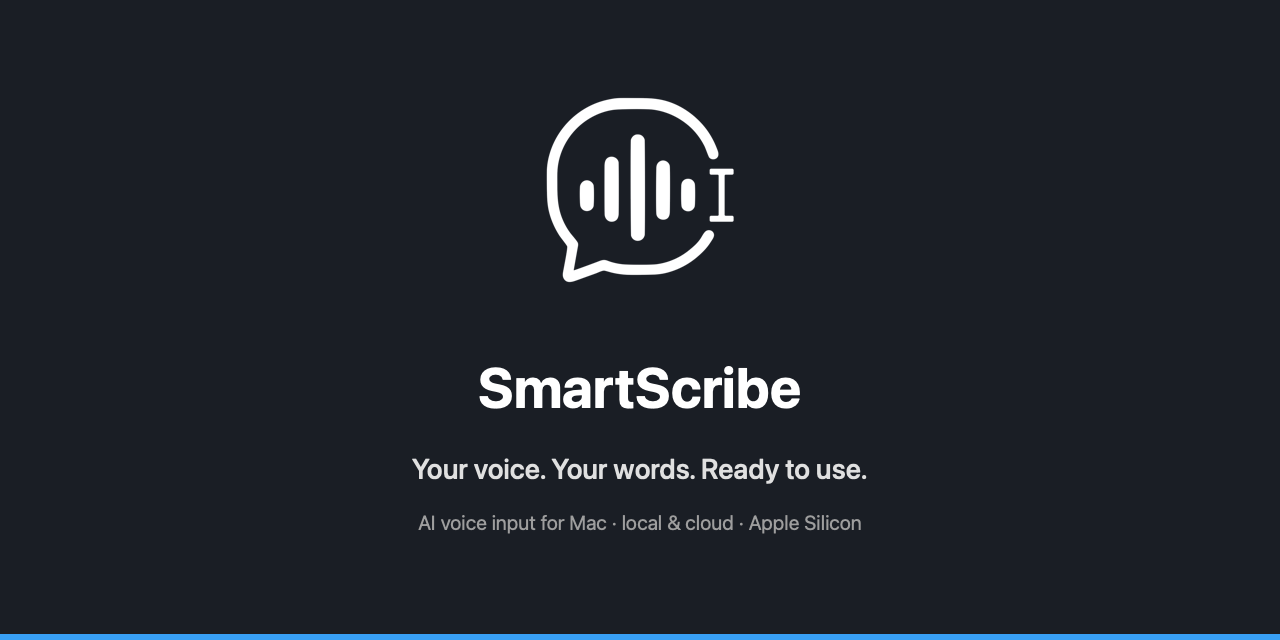
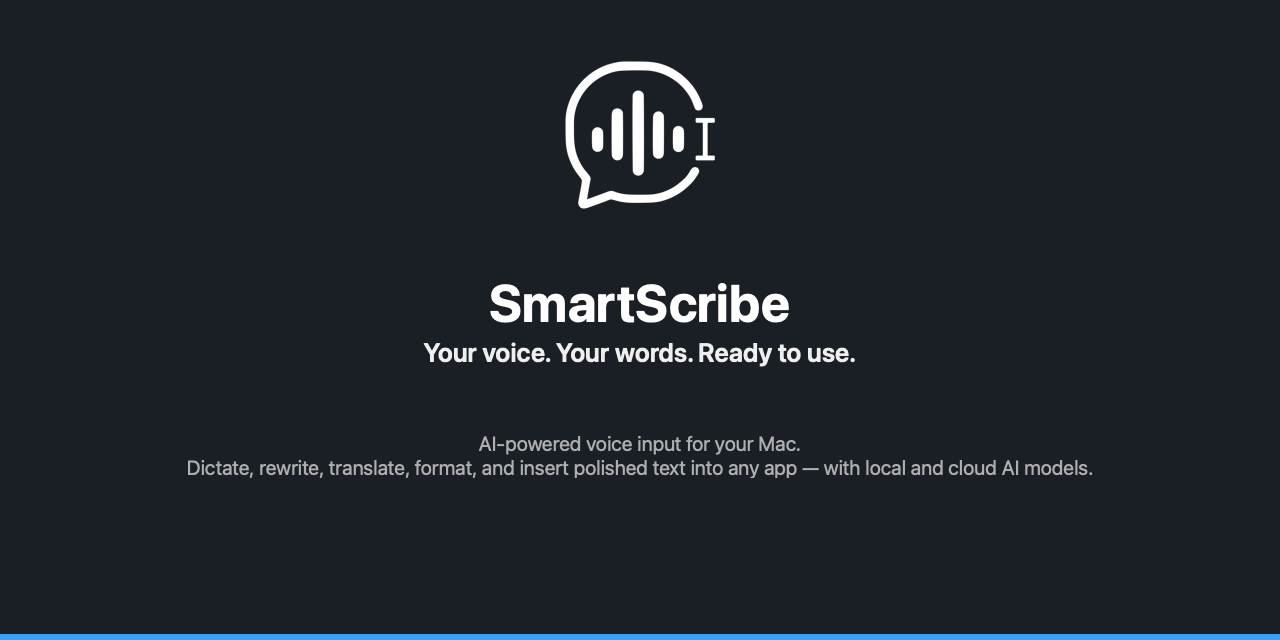
docs: lead with slogan and product pitch; tech details below
Keep About/social messaging on the voice-input story. Move engine
names (MLX, Whisper, etc.) into a secondary technical line.

diff --git a/README.md b/README.md
@@ -31,20 +31,22 @@
   <a href="#license--distribution">License</a>
 </p>
 
-Native **Swift / SwiftUI** for Apple Silicon — not Electron, not a browser shell. Work fully offline with local models, or plug in cloud APIs when you want them.
-
 ---
 
 ## Why SmartScribe
 
 | Advantage | What it means in practice |
 |-----------|---------------------------|
-| **Local-first** | WhisperKit, Parakeet, and MLX polishing run on your Mac. Audio and text stay on-device unless you deliberately choose a cloud engine. |
+| **Local-first** | Speech and polishing can stay on your Mac. Nothing leaves the device unless you choose a cloud provider. |
 | **Two-stage pipeline** | **Transcription** (speech → text) is separate from **polishing** (text → cleaner text). You always keep a faithful **Raw** transcript. |
 | **System-wide hotkeys** | Dictate from Slack, browser, IDE, or Notes. A floating **HUD** shows recording / processing without stealing keyboard focus. |
-| **Provider flexibility** | Local MLX models *and* Gemini / OpenAI / Anthropic / Qwen / OpenRouter / custom OpenAI-compatible endpoints — with multi-key rotation. |
+| **Local + cloud** | Use on-device models when you want privacy and speed, or cloud APIs when you want more power — switch live from the HUD. |
 | **Real workspace** | Notes history, Raw / Variant 1 / Variant 2, Markdown, glossary, translation, prompt templates, usage stats, built-in Help. |
-| **Native quality** | Developer ID signed, Apple notarized DMG, menu-bar status item, Accessibility insertion, dark/light UI, 12 interface languages. |
+| **Native quality** | Pure Swift / SwiftUI for Apple Silicon. Developer ID signed, Apple notarized DMG, dark/light UI, 12 interface languages. |
+
+### Under the hood (technical)
+
+Apple Silicon only · macOS 14+ · **WhisperKit** / **Parakeet** local ASR · **MLX** local polishing · optional Gemini / OpenAI / Anthropic / Qwen / OpenRouter · not Electron.
 
 ---
 
